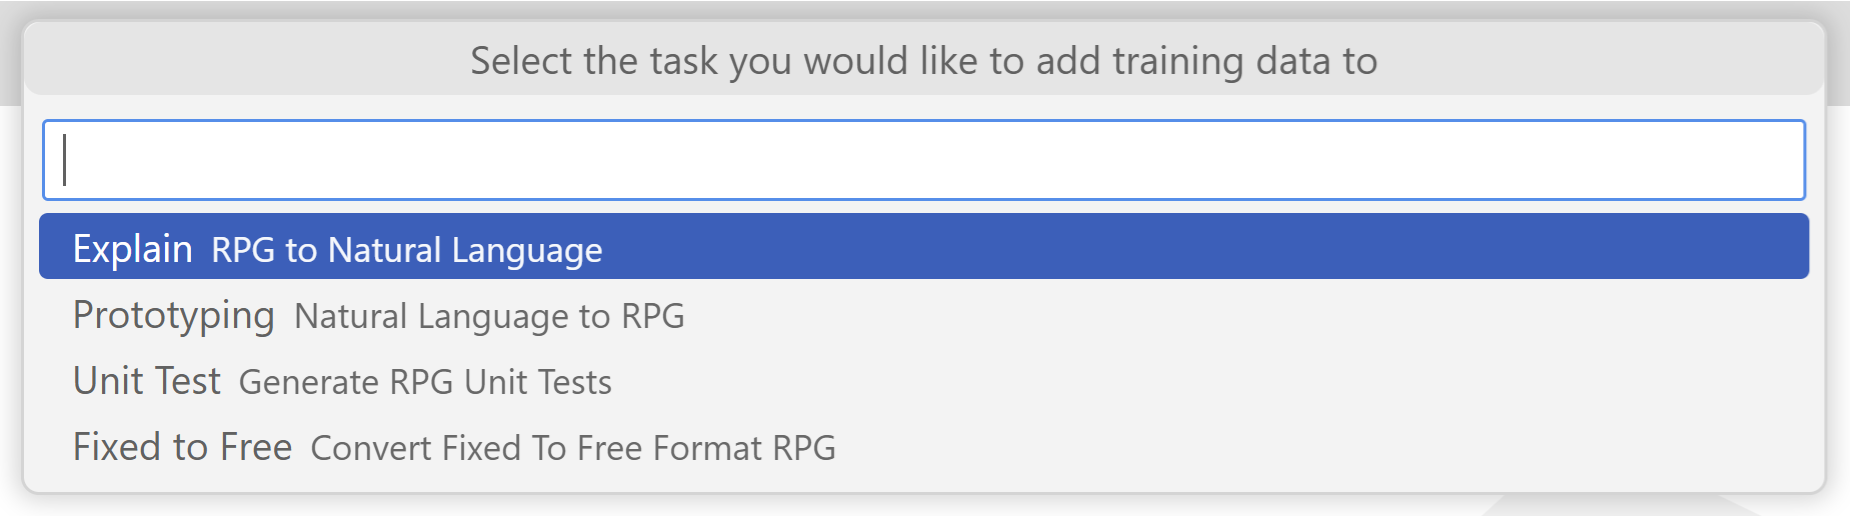
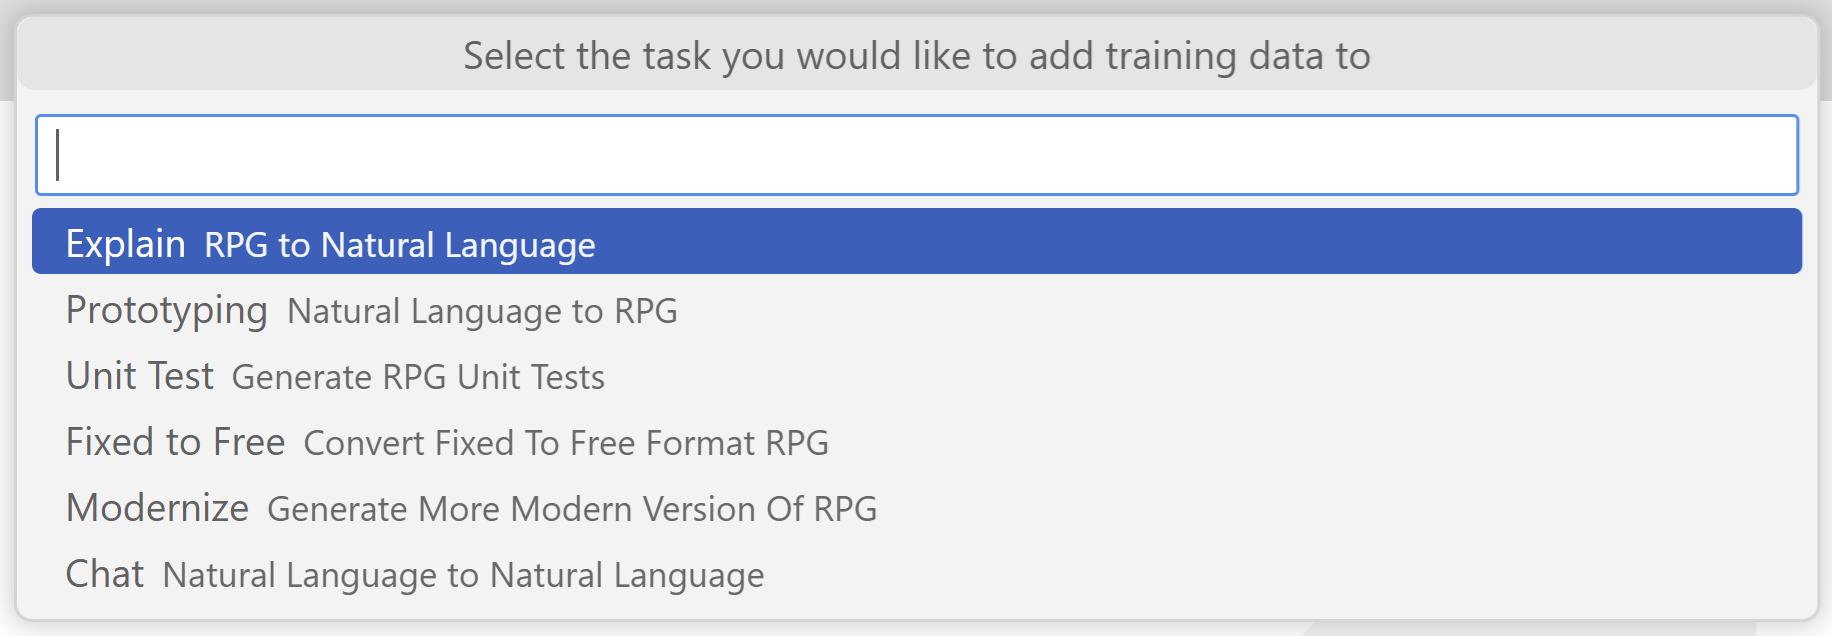
Add steps for using VS code extension

Changed region(s): [[0.0, 0.0, 0.9956, 0.6512], [0.0, 0.6822, 0.9956, 0.9922]]

diff --git a/docs/pages/vscode_ui.md b/docs/pages/vscode_ui.md
@@ -1,0 +1,53 @@
+# RPG Gen AI Data Collector
+
+The [RPG Gen AI Data Collector](https://marketplace.visualstudio.com/items?itemName=IBM.rpg-genai-data-collector) VS Code extension is to assist with collecting RPG training data and publishing it to the [rpg-genai-data](https://github.com/AIforIBMi/rpg-genai-data) repository. Rather than having to manually add your data files in the correct format and directory structure, you can use this extension to help you do this by following a series of steps outlined below.
+
+## Installation
+
+1. **Visual Studio Code**: Since this extension is built on top of Visual Studio Code, you will need to first download it from [here](https://code.visualstudio.com/download).
+
+2. **RPG Gen AI Data Collector Extension:** Once you have VS Code installed, navigate to the **Extensions** view and install the [RPG Gen AI Data Collector](https://marketplace.visualstudio.com/items?itemName=IBM.rpg-genai-data-collector) extension. If you cannot access the marketplace, the extension can also be downloaded from the [Open VSX Registry](https://open-vsx.org/extension/IBM/rpg-genai-data-collector) and manually installed using the **Extensions: Install from VSIX...** command in the VS commnad pallete.
+
+    ![RPG Gen AI Data Collector from the Visual Studio Code Marketplace](../media/marketplaceInstall.png)
+
+3. **Code for IBM i**: The RPG Gen AI Data Collector extension has a dependency on the Code for IBM i extension to support adding trianing data from the IFS or QSYS. To install this extension, navigate to the **Extensions** view and install the [Code for IBM i](https://marketplace.visualstudio.com/items?itemName=HalcyonTechLtd.code-for-ibmi) extension. If you cannot access the marketplace, the extension can again also be downloaded from the [Open VSX Registry](https://open-vsx.org/extension/halcyontechltd/code-for-ibmi) and manually installed using the **Extensions: Install from VSIX...** command in the VS commnad pallete.
+
+    ![Code for IBM i from the Visual Studio Code Marketplace](../media/marketplaceCode4iInstall.png)
+
+## Add New Training Data
+
+1. Create a fork of the [rpg-genai-data](https://github.com/AIforIBMi/rpg-genai-data) repository. Refer to the instructions [here](https://docs.github.com/en/pull-requests/collaborating-with-pull-requests/working-with-forks/fork-a-repo#forking-a-repository) for more details. 
+
+2. Run the **Git: Clone** command in the VS Code command pallete to clone the forked repository and open it in the workspace.
+
+3. Run the **RPG Gen AI Data Collector: Add New Training Data** command in the VS Code command pallete.
+
+    ![Add New Training Data Command](../media/addNewTrainingDataCommand.png)
+
+4. Select the task you would like to add training data to.
+
+    ![Select Task Prompt](../media/selectTaskPrompt.png)
+
+5. Select an existing organization attribute or create a new one.
+
+    ![Select Organization Attribution Prompt](../media/selectOrganizationAttributionPrompt.png)
+
+6. Fill in the fields in the **Attribution** tab will your relevant information.
+
+    ![Attribution Tab](../media/attributionTab.png)
+
+7. Click on the **Training Data** tab to now add the training data. When adding input, context, or output files, you will have the option to add files
+from your local machine, from the IFS, and from QSYS. This will require connecting to an IBM i which can be done by following the instructions [here](https://codefori.github.io/docs/login/).
+
+    ![Training Data Tab](../media/trainingDataTab.png)
+
+## Create Pull Request
+
+1. Run the **RPG Gen AI Data Collector: Create Pull Request** command in the VS Code command pallete to start the process of creating a pull request. This will stage all changed files, commit/sign your changes, and push them to your forked repository.
+
+    ![Create Pull Request Command](../media/createPullRequestCommand.png)
+
+2. If this process is successful, it will then launch a webpage in your browser to create the pull request on GitHub in the [rpg-genai-data
+](https://github.com/AIforIBMi/rpg-genai-data) repository. Note that the title will already be prefilled with the task and organization based on the changed files.
+
+3. Review the changed files and click the **Create pull request** button on the GitHub webpage.
